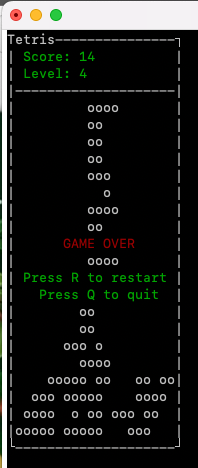
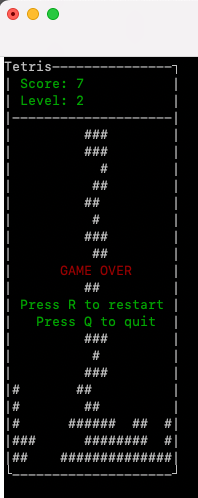
improve readme
use # as a render character

Changed region(s): [[0.0, 0.0, 1.0, 1.0]]

diff --git a/src/menu_screen.rb b/src/menu_screen.rb
@@ -10,7 +10,7 @@ class MenuScreen < Screen
 
   MENU_OPTIONS = [
     { "title" => "Start Game", "action" => :start_game },
-    { "title" => "Constrols", "action" => :controls },
+    { "title" => "Controls", "action" => :controls },
     { "title" => "Exit", "action" => :exit },
   ]
 

diff --git a/src/configuration.rb b/src/configuration.rb
@@ -19,7 +19,7 @@ module Configuration
 
   # ASCII cahracter to be used for rendering game objects
   # RENDER_CHARACTER = 'o'
-  RENDER_CHARACTER = 'o'
+  RENDER_CHARACTER = '#'
 
   # Box rendering characters
   BOX_VERTICAL = '|'

diff --git a/readme.md b/readme.md
@@ -4,7 +4,7 @@ Jaroslav Fikar (fikarja3@fit.cvut.cz)
 
 ## Zadání a popis
 
-Jedná se o remake klasické hry tetris.
+Jedná se o remake klasické hry Tetris.
 
 - Konzolové rozhraní (s použitím curses nebo podobné knihovny)
 - Hlavní menu a stránka s ovládáním hry
@@ -22,17 +22,24 @@ Jedná se o remake klasické hry tetris.
 ![Pozastavená hra](results/paused.png "Pozastavená hra")
 ![Game over](results/game_over.png "Game over screen")
 
-# Spuštění
+## Spuštění
 
 ```bash
 ./tetris.rb
 ```
+
+## Konfigurace
+
+Uživatel má možnost změnit některé parametry (např. velikost obrazovky, znak pro vykreslení hry...) hry v
+souboru [src/configuration.rb](src/configuration.rb).
 
 ## Ovládání
 
 W - rotace / orientace v menu
 
 S - zrychlené padání / orientace v menu
+
+ENTER - výběr položky v menu
 
 A - posun doleva
 
